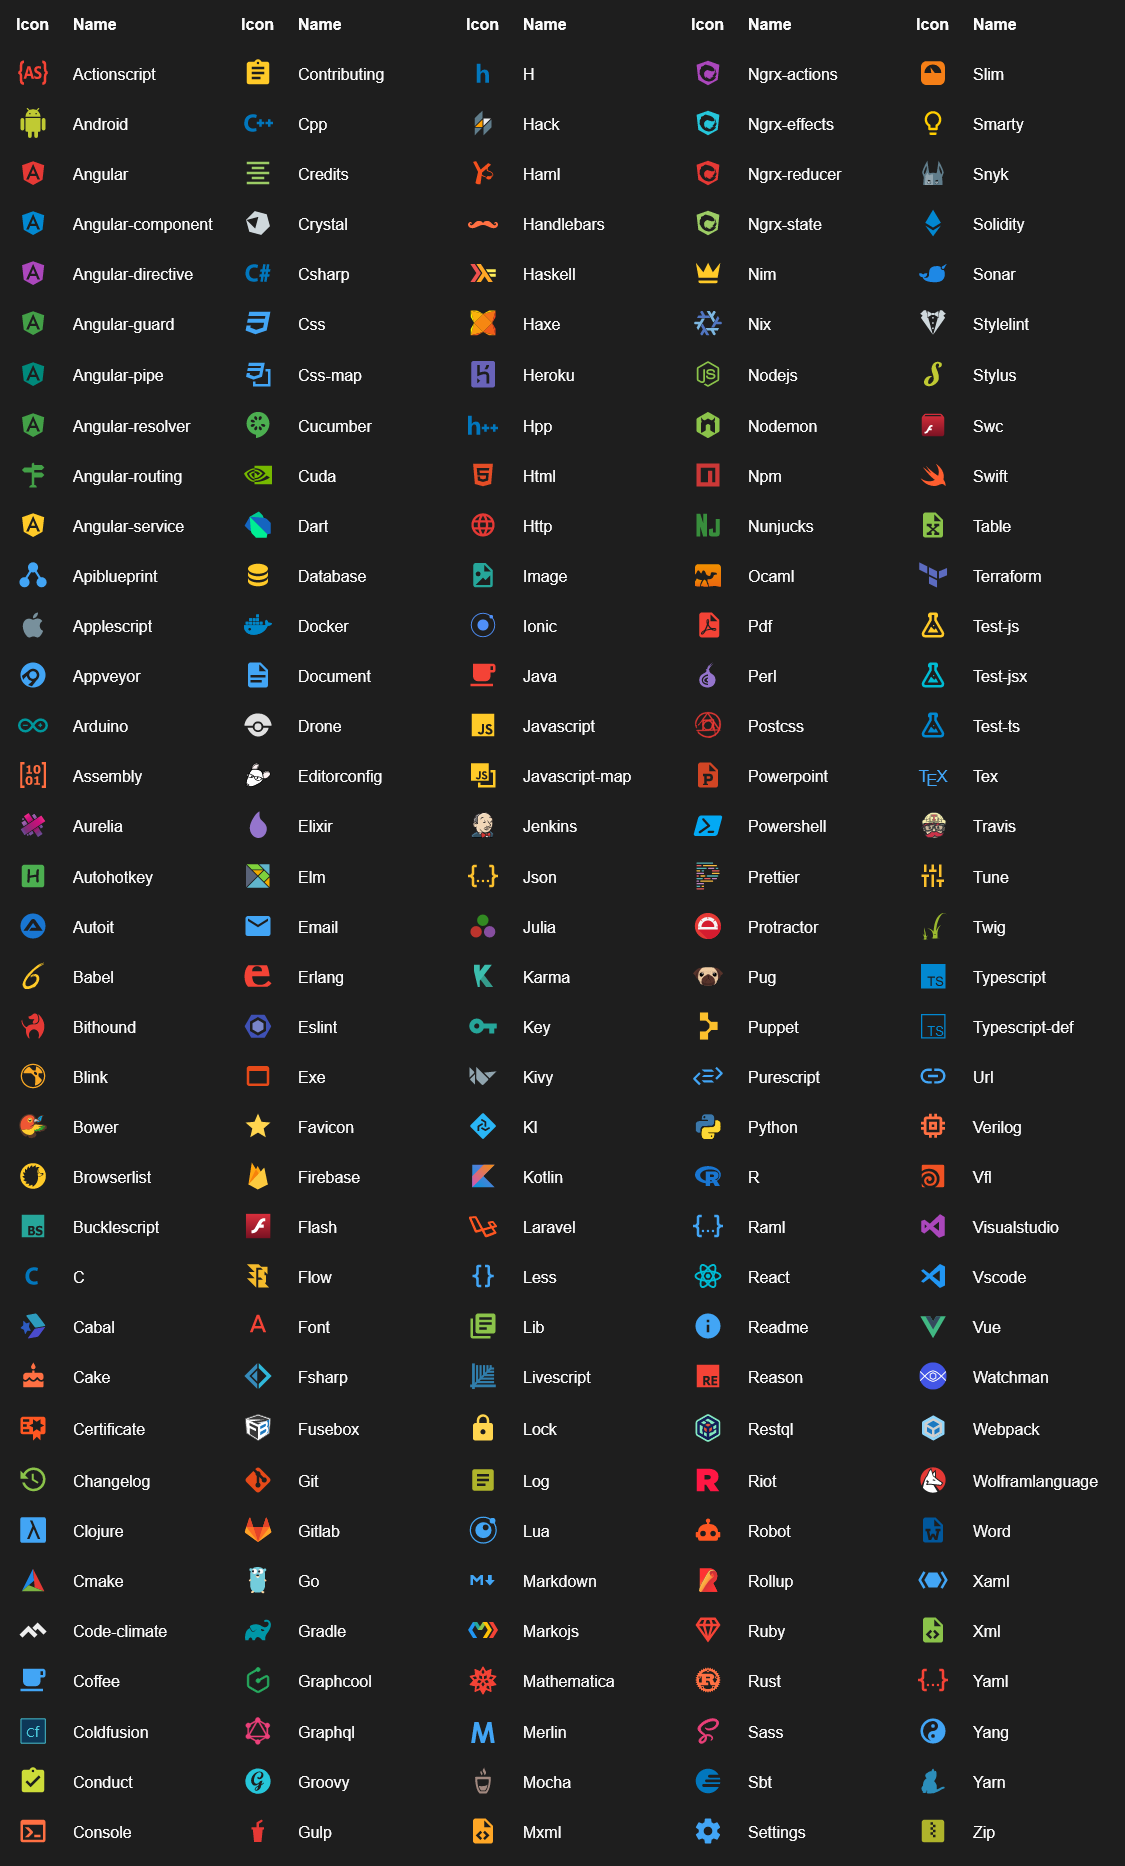
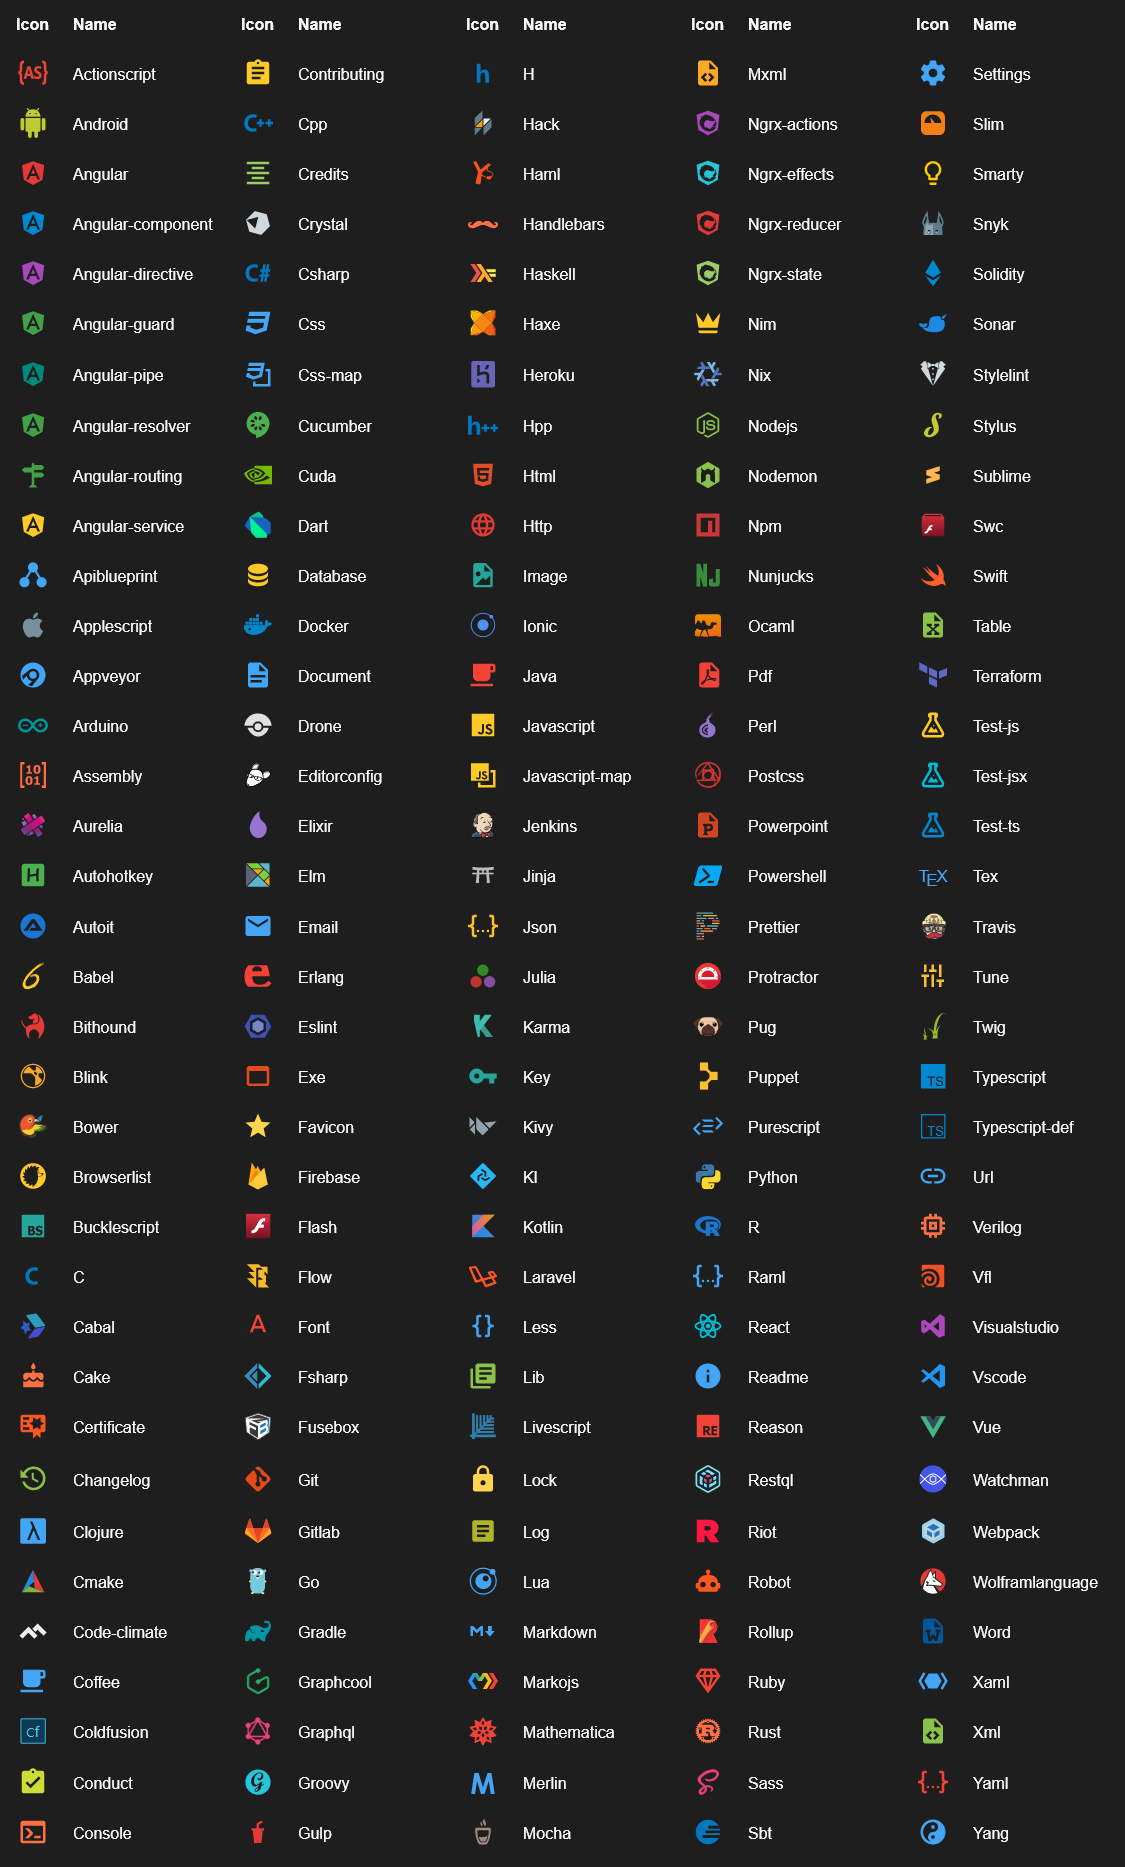
merged #169

diff --git a/src/i18n/lang-pt-pt.ts b/src/i18n/lang-pt-pt.ts
@@ -1,0 +1,39 @@
+import { Translation } from '../models';
+
+export const translation: Translation = {
+    'themeInstalled': 'O Material Icon Theme foi instalado.',
+    'howToActivate': 'Como habilitar os ícones',
+    'activate': 'Habilitar',
+    'activated': 'O Material Icon Theme está habilitado.',
+    'neverShowAgain': 'Não mostrar novamente',
+    'themeUpdated': 'O Material Icon Theme foi atualizado.',
+    'readChangelog': 'Ler registos',
+    'iconPacks': {
+        'selectPack': 'Seleccione um pacote de ícones',
+        'description': 'Seleccionar o pacote de ícones \'%0\'',
+        'disabled': 'Desabilitar pacotes de ícones',
+    },
+    'folders': {
+        'toggleIcons': 'Escolhe um tema para os directórios',
+        'color': 'Escolhe uma cor para os directórios',
+        'hexCode': 'Insira um código de cor hexadecimal',
+        'wrongHexCode': 'Código de cor hexadecimal inválido!',
+        'disabled': 'Nenhum ícone do directório',
+        'theme': {
+            'description': 'Seleccionar o tema para directórios \'%0\''
+        }
+    },
+    'toggleSwitch': {
+        'on': 'ON',
+        'off': 'OFF'
+    },
+    'hidesExplorerArrows': {
+        'toggleArrows': 'Alternar setas do explorador de ficheiros',
+        'enableArrows': 'Exibir setas do explorador de ficheiros',
+        'disableArrows': 'Ocultar setas do explorador de ficheiros'
+    },
+    'confirmReload': 'Precisas reinicializar o VS Code para habilitar a alteração de ícones.',
+    'reload': 'Reiniciar',
+    'outdatedVersion': 'Precisas actualizar o VS Code para utilizar este comando.',
+    'updateVSCode': 'Actualizar o VS Code'
+};

diff --git a/src/icons/folderIcons.ts b/src/icons/folderIcons.ts
@@ -37,6 +37,18 @@ export const folderIcons: FolderTheme[] = [
                     'specs'
                 ]
             },
+            {
+                name: 'folder-jinja',
+                folderNames: [
+                    'jinja',
+                    'jinja2',
+                    'j2'
+                ],
+                light: true
+            },
+            { name: 'folder-markdown', folderNames: ['markdown', 'md'] },
+            { name: 'folder-phpmailer', folderNames: ['phpmailer'] },
+            { name: 'folder-sublime', folderNames: ['sublime'] },
             { name: 'folder-docs', folderNames: ['doc', 'docs'] },
             {
                 name: 'folder-git',

diff --git a/src/icons/fileIcons.ts b/src/icons/fileIcons.ts
@@ -36,6 +36,24 @@ export const fileIcons: FileIcons = {
                 'cdp.pid'
             ]
         },
+        {
+            name: 'jinja',
+            fileExtensions: ['jinja'],
+            fileNames: [
+                'jinja',
+                'jinja2',
+                'j2'
+            ],
+            light: true
+        },
+        {
+            name: 'sublime',
+            fileExtensions: ['sublime'],
+            fileNames: [
+                'sublime-project',
+                'sublime-workspace'
+            ]
+        },
         { name: 'yaml', fileExtensions: ['yaml', 'YAML-tmLanguage', 'yml'] },
         {
             name: 'xml',
